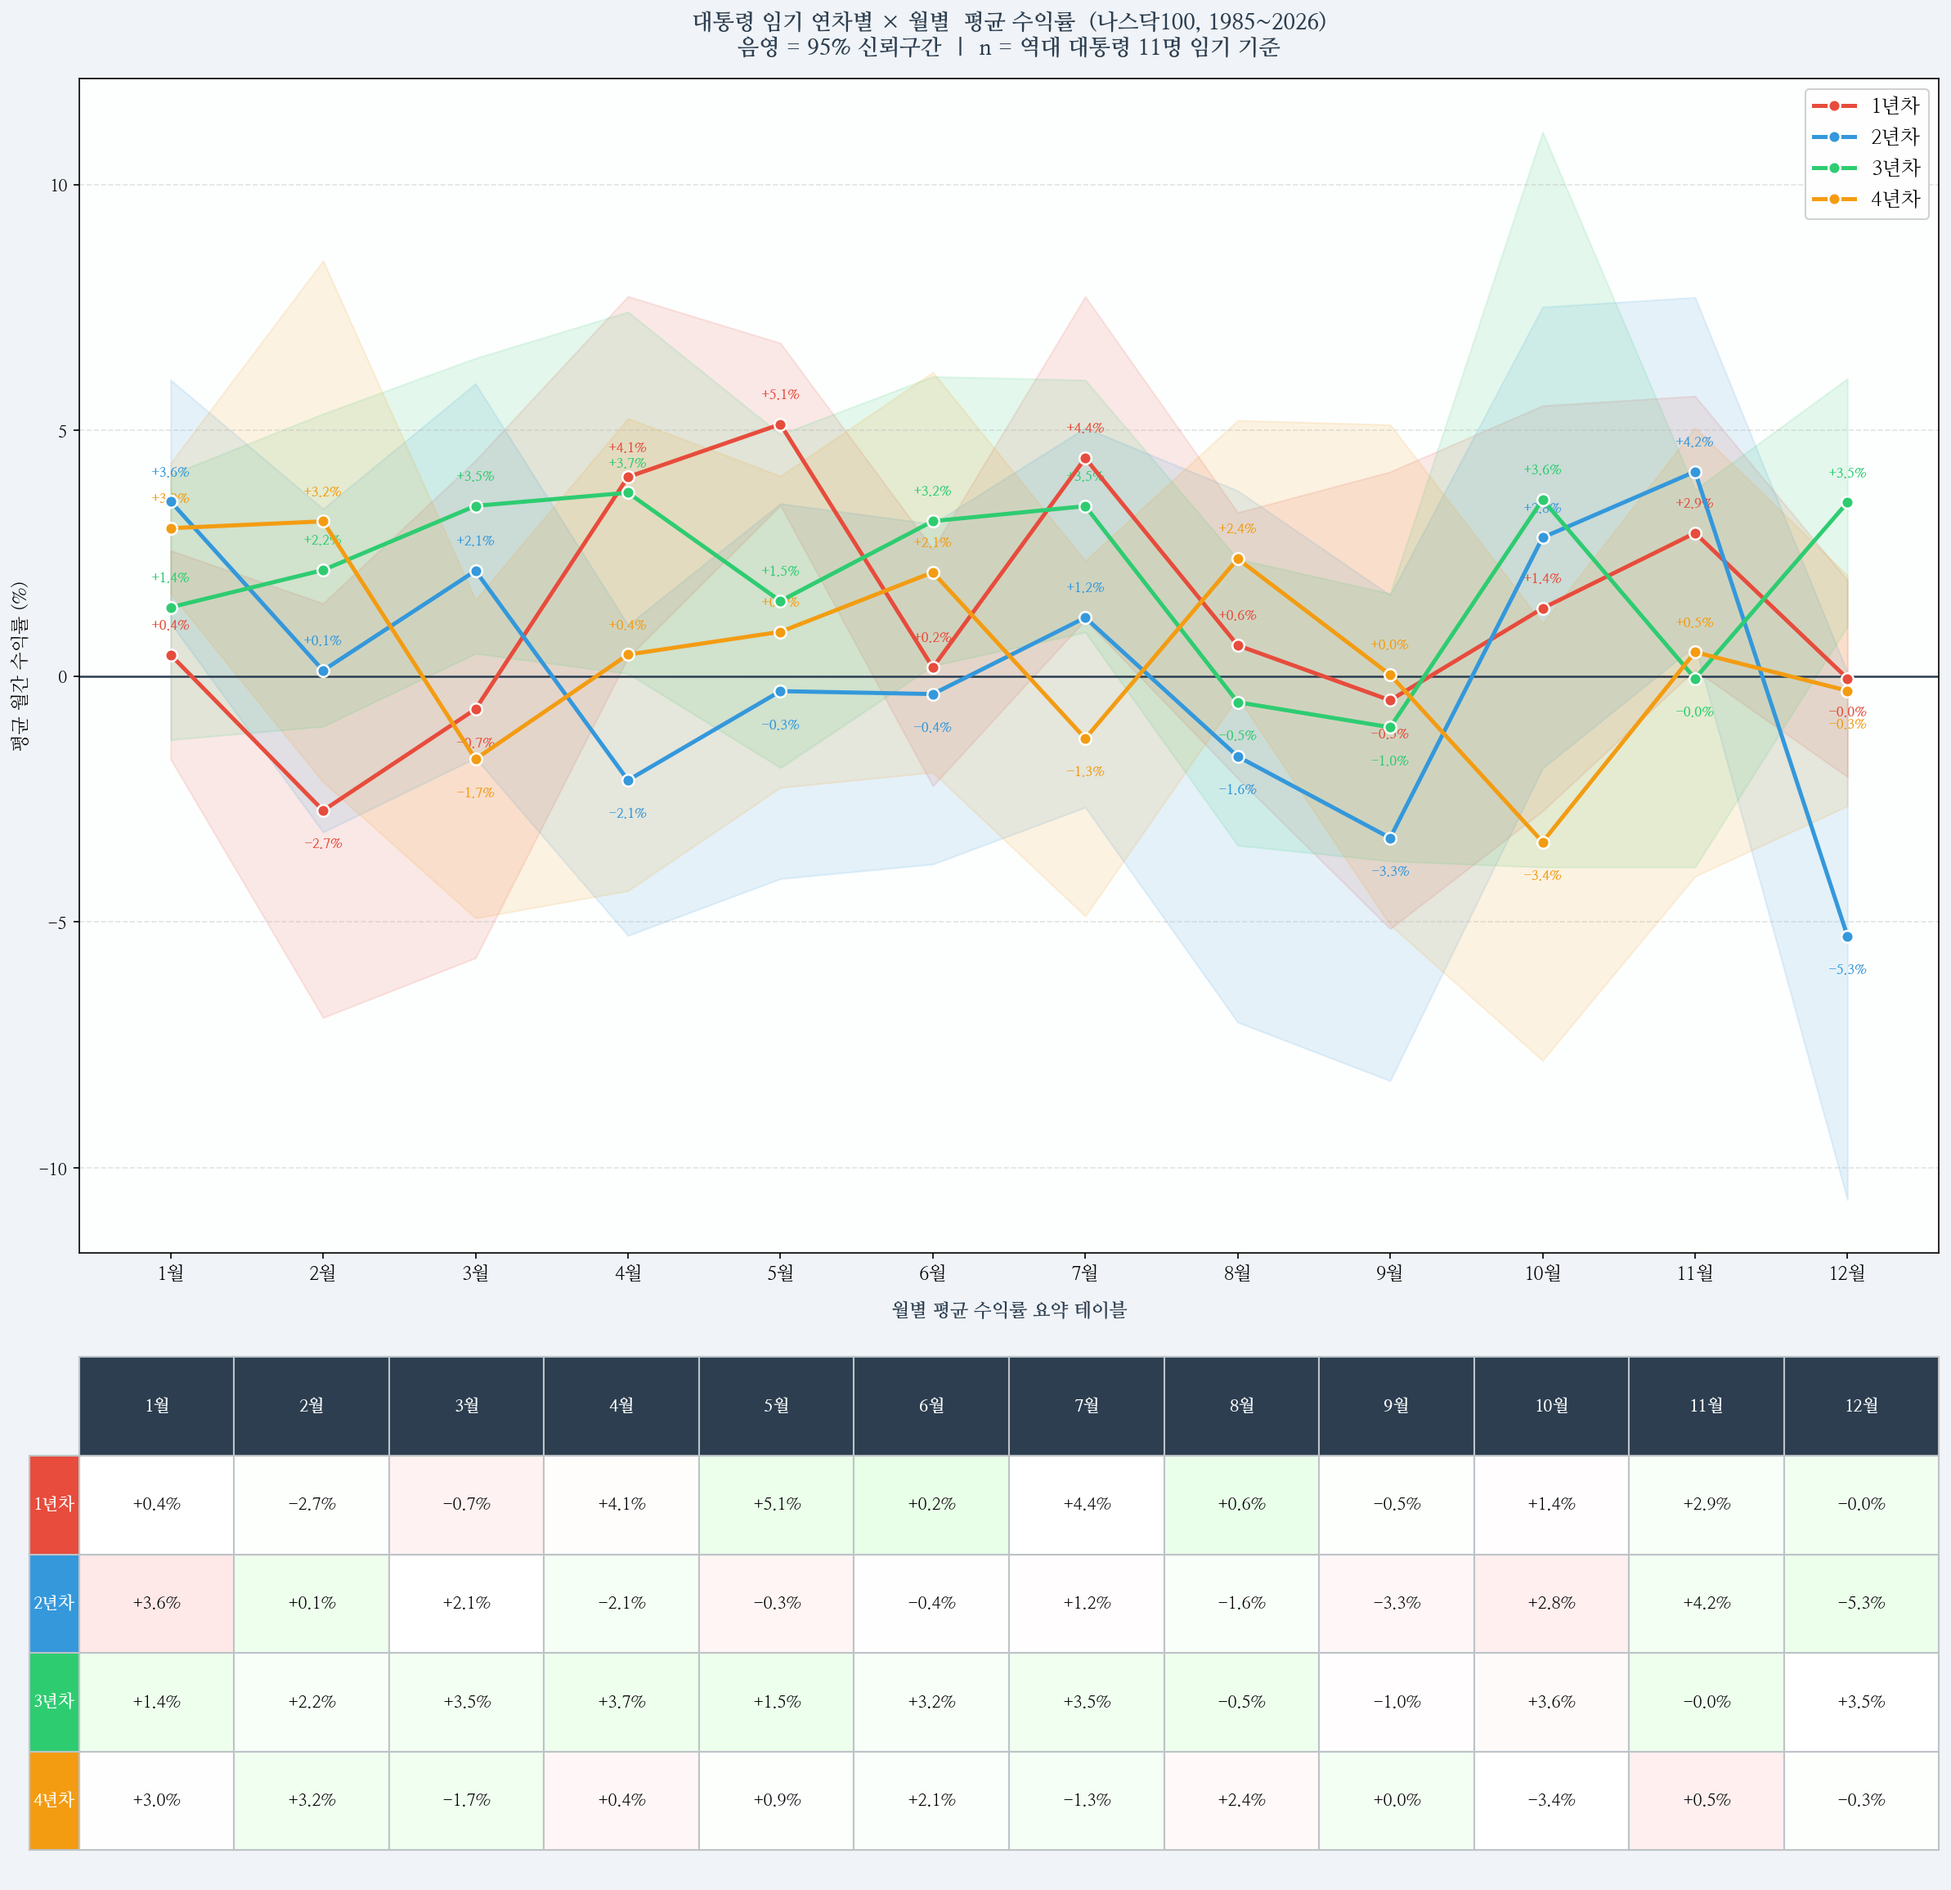
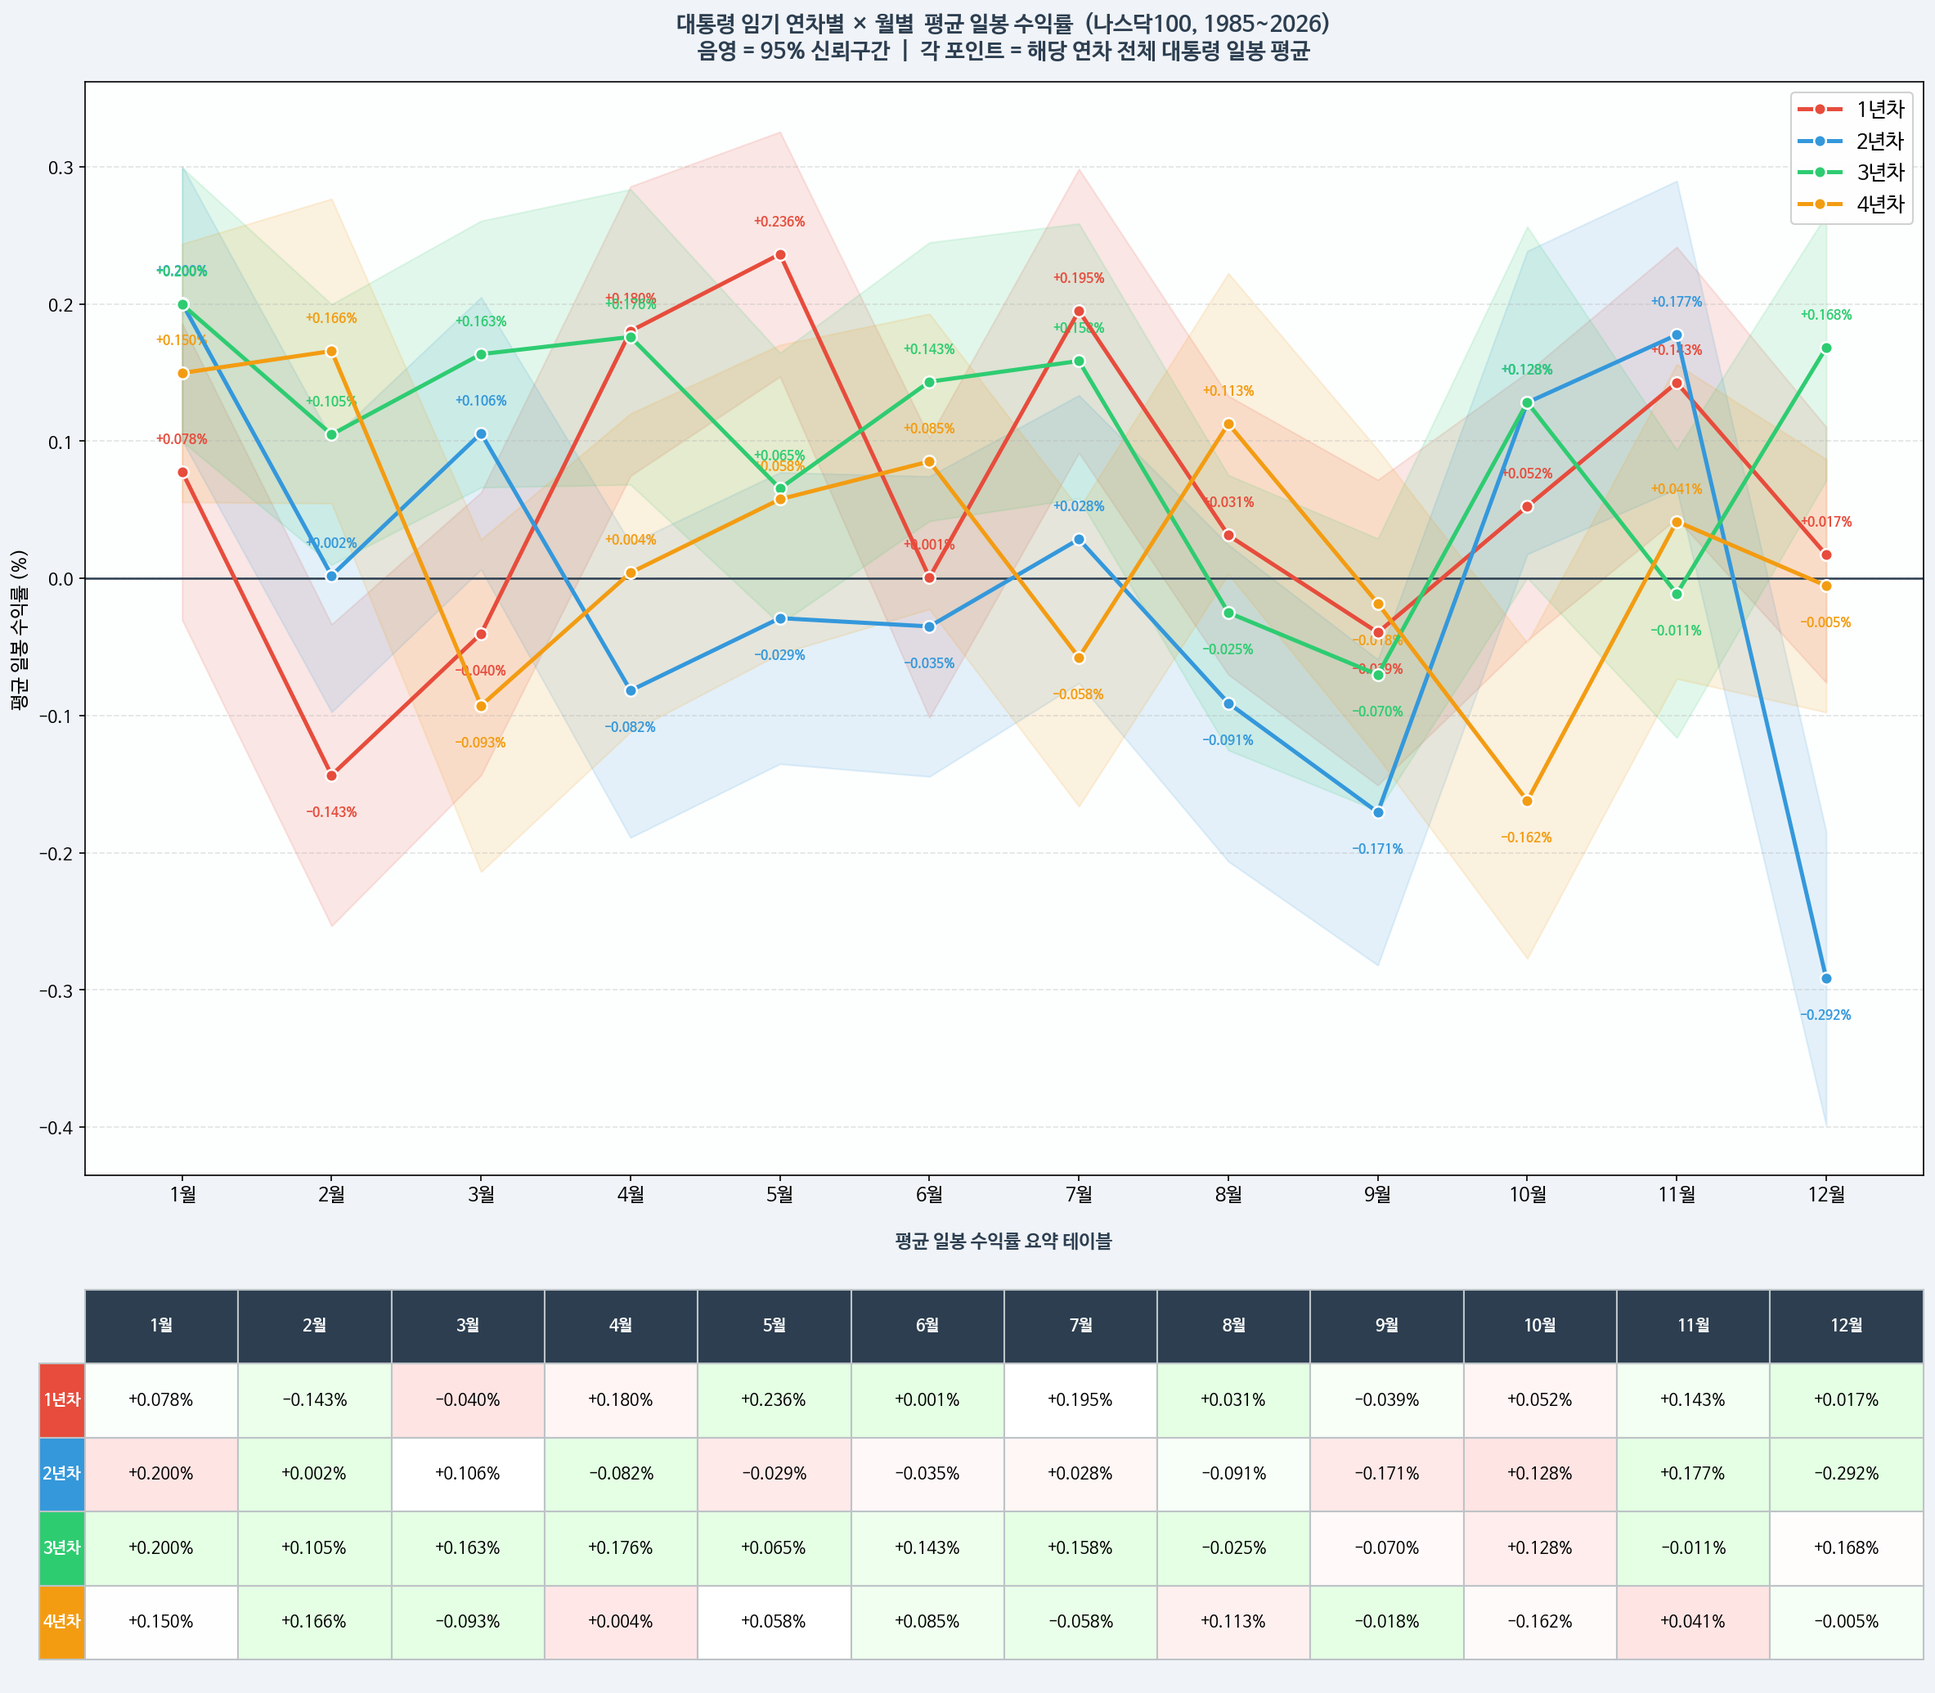
Rewrite year-monthly chart using daily return averages (not period returns)
Each of 48 points = mean of individual daily returns for that
(year-in-office, calendar month) across all 11 presidential terms.
Eliminates the January split ambiguity entirely.

https://claude.ai/code/session_01CizmUX3NaBpeAC8NsoV1t6

diff --git a/ndx_pres_year_monthly.py b/ndx_pres_year_monthly.py
@@ -1,9 +1,9 @@
 """
-대통령 임기 연차별 × 월별 평균 수익률 꺾은선 그래프
+대통령 임기 연차별 × 월별  일봉 평균 수익률 꺾은선 그래프
 - 4개 선: 1년차 / 2년차 / 3년차 / 4년차
 - X축: 1~12월 (달력 기준)
-- Y축: 해당 (연차, 월) 조합의 평균 월간 수익률 (%)
-- 오차범위(95% CI) 포함
+- Y축: 해당 (연차, 월) 구간 일봉 수익률의 평균 (%)
+- 총 48 포인트 + 95% 신뢰구간 음영
 """
 
 import warnings; warnings.filterwarnings('ignore')
@@ -13,8 +13,6 @@ import numpy as np
 import matplotlib; matplotlib.use('Agg')
 import matplotlib.pyplot as plt
 import matplotlib.font_manager as fm
-import matplotlib.patches as mpatches
-import subprocess
 
 # ── 한글 폰트 ─────────────────────────────────────────────────────────────────
 def setup_korean_font():
@@ -55,50 +53,34 @@ raw = pd.read_csv(DATA_CSV, index_col='Date', parse_dates=True)
 raw.index = pd.to_datetime(raw.index).tz_localize(None)
 raw = raw[['Close']].rename(columns={'Close': 'close'}).dropna()
 raw = raw[raw.index <= TODAY]
+raw['ret'] = raw['close'].pct_change() * 100   # 일간 수익률 (%)
 
-# ── 연차별 월별 수익률 수집 ──────────────────────────────────────────────────
-# 각 (대통령, 연차, 월) → 해당 월의 수익률 수집
-records = []
-
+# ── 각 일봉에 (연차, 월) 태그 부착 ───────────────────────────────────────────
+rows = []
 for _, prow in PRES_DF.iterrows():
     p_start = prow['start']
-    p_end   = min(prow['end'], TODAY)
 
-    for yr_n in range(1, 5):                         # 1~4년차
+    for yr_n in range(1, 5):
         yr_s = p_start + pd.DateOffset(years=yr_n - 1)
         yr_e = min(p_start + pd.DateOffset(years=yr_n), TODAY)
         if yr_s >= TODAY:
             break
 
-        # 해당 연차 구간 데이터
-        seg = raw[(raw.index >= yr_s) & (raw.index < yr_e)].copy()
-        if len(seg) < 10:
-            break
+        seg = raw[(raw.index > yr_s) & (raw.index < yr_e)].copy()
+        # pct_change 첫날(취임일 다음)은 정상 포함
+        seg = seg.dropna(subset=['ret'])
+        seg['yr_n']  = yr_n
+        seg['month'] = seg.index.month
+        rows.append(seg[['ret', 'yr_n', 'month']])
 
-        # (달력연도, 달력월) 단위로 완전한 월만 수집
-        # → 취임일(1/20)에 의해 1월이 두 토막 나는 문제 방지
-        for (cal_yr, cal_mo), m_data in seg.groupby(
-                [seg.index.year, seg.index.month]):
-            # 10 영업일 미만 제외 (Jan 20-31 ~8일 탈락, Jan 1-19 ~13일 허용)
-            if len(m_data) < 10:
-                continue
-            mret = (m_data['close'].iloc[-1] / m_data['close'].iloc[0] - 1) * 100
-            records.append({
-                'pres':    prow['name'],
-                'term':    prow['term'],
-                'party':   prow['party'],
-                'yr_n':    yr_n,
-                'month':   cal_mo,
-                'mret':    mret,
-            })
+df = pd.concat(rows, ignore_index=True)
+print(f"총 일봉 수: {len(df):,}개")
 
-df = pd.DataFrame(records)
-print(f"수집된 (연차, 월) 샘플 수: {len(df)}")
-print(df.groupby(['yr_n', 'month']).size().unstack(fill_value=0))
-
-# ── 집계: 평균 & 95% CI ──────────────────────────────────────────────────────
-agg = df.groupby(['yr_n', 'month'])['mret'].agg(['mean', 'std', 'count']).reset_index()
-agg['se']   = agg['std'] / np.sqrt(agg['count'])
+# ── 집계: (연차, 월) → 일봉 평균 & 95% CI ────────────────────────────────────
+agg = (df.groupby(['yr_n', 'month'])['ret']
+         .agg(mean='mean', std='std', n='count')
+         .reset_index())
+agg['se']   = agg['std'] / np.sqrt(agg['n'])
 agg['ci95'] = agg['se'] * 1.96
 
 # ── 콘솔 출력 ─────────────────────────────────────────────────────────────────
@@ -106,74 +88,75 @@ MONTH_KR = ['1월','2월','3월','4월','5월','6월',
             '7월','8월','9월','10월','11월','12월']
 YR_LABEL = ['1년차','2년차','3년차','4년차']
 
-print("\n[ 대통령 연차별 월평균 수익률 (%) ]")
-header = f"{'월':>4}" + "".join(f"{lbl:>10}" for lbl in YR_LABEL)
-print(header)
-print("-" * 44)
-for m in range(1, 13):
-    row_str = f"{MONTH_KR[m-1]:>4}"
-    for yr in range(1, 5):
+print(f"\n[ 연차별 월 평균 일봉 수익률 (%) — 샘플 수 ]")
+cnt_tbl = agg.pivot(index='yr_n', columns='month', values='n').fillna(0).astype(int)
+cnt_tbl.index = YR_LABEL
+cnt_tbl.columns = MONTH_KR
+print(cnt_tbl.to_string())
+
+print(f"\n[ 연차별 월 평균 일봉 수익률 (%) ]")
+hdr = f"{'':>5}" + "".join(f"{m:>8}" for m in MONTH_KR)
+print(hdr)
+print("-" * (5 + 8*12))
+for yr in range(1, 5):
+    row_str = f"{YR_LABEL[yr-1]:>5}"
+    for m in range(1, 13):
         val = agg[(agg['yr_n']==yr) & (agg['month']==m)]['mean']
-        row_str += f"  {val.values[0]:+6.2f}%" if len(val) else "       N/A"
+        row_str += f"  {val.values[0]:+5.3f}%" if len(val) else "      N/A"
     print(row_str)
 
 # ── 시각화 ────────────────────────────────────────────────────────────────────
-COLORS = {
-    1: '#E74C3C',   # 1년차 — 빨강
-    2: '#3498DB',   # 2년차 — 파랑
-    3: '#2ECC71',   # 3년차 — 초록
-    4: '#F39C12',   # 4년차 — 주황
-}
-DARK  = '#2C3E50'
-LIGHT = '#F0F3F7'
+COLORS = {1: '#E74C3C', 2: '#3498DB', 3: '#2ECC71', 4: '#F39C12'}
+DARK   = '#2C3E50'
+LIGHT  = '#F0F3F7'
 
-fig, axes = plt.subplots(2, 1, figsize=(16, 16),
-                         gridspec_kw={'height_ratios': [3, 1.4]})
+fig, axes = plt.subplots(2, 1, figsize=(16, 14),
+                         gridspec_kw={'height_ratios': [2.6, 1]})
 fig.patch.set_facecolor(LIGHT)
 
-# ── 메인: 꺾은선 그래프 ───────────────────────────────────────────────────────
+# ─── 메인 꺾은선 ──────────────────────────────────────────────────────────────
 ax = axes[0]
 ax.set_facecolor('#FDFEFE')
 ax.axhline(0, color=DARK, lw=1.2, zorder=2)
 
-x_ticks = np.arange(1, 13)
+x = np.arange(1, 13)
 
 for yr in range(1, 5):
-    sub = agg[agg['yr_n'] == yr].set_index('month').reindex(x_ticks)
+    sub   = agg[agg['yr_n'] == yr].set_index('month').reindex(x)
     means = sub['mean'].values
     ci    = sub['ci95'].values
     col   = COLORS[yr]
     lbl   = YR_LABEL[yr-1]
+    cnt   = sub['n'].values
 
-    # CI 음영
-    ax.fill_between(x_ticks, means - ci, means + ci,
-                    color=col, alpha=0.12, zorder=1)
+    ax.fill_between(x, means - ci, means + ci,
+                    color=col, alpha=0.13, zorder=1)
+    ax.plot(x, means, color=col, lw=2.4, marker='o', ms=7,
+            label=lbl, zorder=4,
+            markeredgecolor='white', markeredgewidth=1.2)
 
-    # 선 + 마커
-    ax.plot(x_ticks, means, color=col, lw=2.4, marker='o',
-            ms=7, label=lbl, zorder=4, markeredgecolor='white', markeredgewidth=1.2)
-
-    # 값 레이블
-    for x, y in zip(x_ticks, means):
+    for xi, (y, n) in enumerate(zip(means, cnt)):
         if np.isnan(y):
             continue
-        offset = 0.45 if y >= 0 else -0.55
-        ax.text(x, y + offset, f"{y:+.1f}%", ha='center',
+        offset = 0.018 if y >= 0 else -0.022
+        ax.text(xi + 1, y + offset,
+                f"{y:+.3f}%",
+                ha='center',
                 va='bottom' if y >= 0 else 'top',
-                fontsize=8, color=col, fontweight='bold')
+                fontsize=7.5, color=col, fontweight='bold')
 
-ax.set_xticks(x_ticks)
+ax.set_xticks(x)
 ax.set_xticklabels(MONTH_KR, fontsize=11)
-ax.set_ylabel("평균 월간 수익률 (%)", fontsize=11)
-ax.set_xlim(0.4, 12.6)
+ax.set_ylabel("평균 일봉 수익률 (%)", fontsize=11)
+ax.set_xlim(0.35, 12.65)
 ax.legend(fontsize=12, loc='upper right', framealpha=0.9)
 ax.grid(axis='y', linestyle='--', alpha=0.35)
 ax.set_title(
-    "대통령 임기 연차별 × 월별  평균 수익률  (나스닥100, 1985~2026)\n"
-    "음영 = 95% 신뢰구간  |  n = 역대 대통령 11명 임기 기준",
+    "대통령 임기 연차별 × 월별  평균 일봉 수익률  (나스닥100, 1985~2026)\n"
+    "음영 = 95% 신뢰구간  |  각 포인트 = 해당 연차 전체 대통령 일봉 평균",
     fontsize=13, fontweight='bold', color=DARK, pad=14)
 
-# ── 서브: 히트맵 스타일 테이블 ────────────────────────────────────────────────
+# ─── 하단 요약 테이블 ─────────────────────────────────────────────────────────
 ax2 = axes[1]
 ax2.set_facecolor('#FDFEFE')
 ax2.axis('off')
@@ -184,8 +167,8 @@ for yr in range(1, 5):
     row = []
     row_labels.append(YR_LABEL[yr-1])
     for m in range(1, 13):
-        val = agg[(agg['yr_n']==yr) & (agg['month']==m)]['mean']
-        row.append(f"{val.values[0]:+.1f}%" if len(val) else "N/A")
+        v = agg[(agg['yr_n']==yr) & (agg['month']==m)]['mean']
+        row.append(f"{v.values[0]:+.3f}%" if len(v) else "N/A")
     table_data.append(row)
 
 tbl = ax2.table(
@@ -194,47 +177,35 @@ tbl = ax2.table(
     colLabels=MONTH_KR,
     cellLoc='center', rowLoc='center',
     loc='center',
-    bbox=[0.0, 0.05, 1.0, 0.9]
+    bbox=[0.0, 0.05, 1.0, 0.88]
 )
 tbl.auto_set_font_size(False)
-tbl.set_fontsize(10)
+tbl.set_fontsize(9.5)
 
-# 셀 색상
 for (r, c), cell in tbl.get_celld().items():
     cell.set_edgecolor('#BDC3C7')
-    if r == 0:                      # 헤더 행
+    cell.set_height(0.22)
+    if r == 0:
         cell.set_facecolor('#2C3E50')
         cell.set_text_props(color='white', fontweight='bold')
-        cell.set_height(0.22)
-    elif c == -1:                   # 행 라벨
-        yr_idx = r
-        cell.set_facecolor(COLORS.get(yr_idx, '#ECF0F1'))
+    elif c == -1:
+        cell.set_facecolor(COLORS.get(r, '#ECF0F1'))
         cell.set_text_props(color='white', fontweight='bold')
-        cell.set_height(0.22)
     else:
-        # 값에 따라 녹색/빨강 계열 음영
         try:
-            val_str = table_data[r-1][c-1].replace('%','').replace('+','')
-            val = float(val_str)
-            intensity = min(abs(val) / 8.0, 0.6)
+            val = float(table_data[r-1][c-1].replace('%','').replace('+',''))
+            intensity = min(abs(val) / 0.15, 0.7)   # ±0.15%를 최대 채도 기준
             if val >= 0:
-                cell.set_facecolor((*[1 - intensity*0.3 * x for x in (0, 0.3, 0)], 1))
-                cell.set_facecolor((1 - intensity*0.15,
-                                    1,
-                                    1 - intensity*0.15, 1))
+                cell.set_facecolor((1 - intensity*0.15, 1, 1 - intensity*0.15, 1))
             else:
-                cell.set_facecolor((1,
-                                    1 - intensity*0.15,
-                                    1 - intensity*0.15, 1))
+                cell.set_facecolor((1, 1 - intensity*0.15, 1 - intensity*0.15, 1))
         except Exception:
             cell.set_facecolor('#FDFEFE')
-        cell.set_height(0.22)
 
-ax2.set_title("월별 평균 수익률 요약 테이블", fontsize=11,
+ax2.set_title("평균 일봉 수익률 요약 테이블", fontsize=11,
               fontweight='bold', color=DARK, pad=8)
 
-plt.tight_layout(rect=[0, 0, 1, 0.97])
-plt.suptitle("", y=0.99)
+plt.tight_layout(pad=1.5)
 
 out_png = "/home/user/Trad/ndx_pres_year_monthly.png"
 fig.savefig(out_png, dpi=150, bbox_inches='tight', facecolor=fig.get_facecolor())
